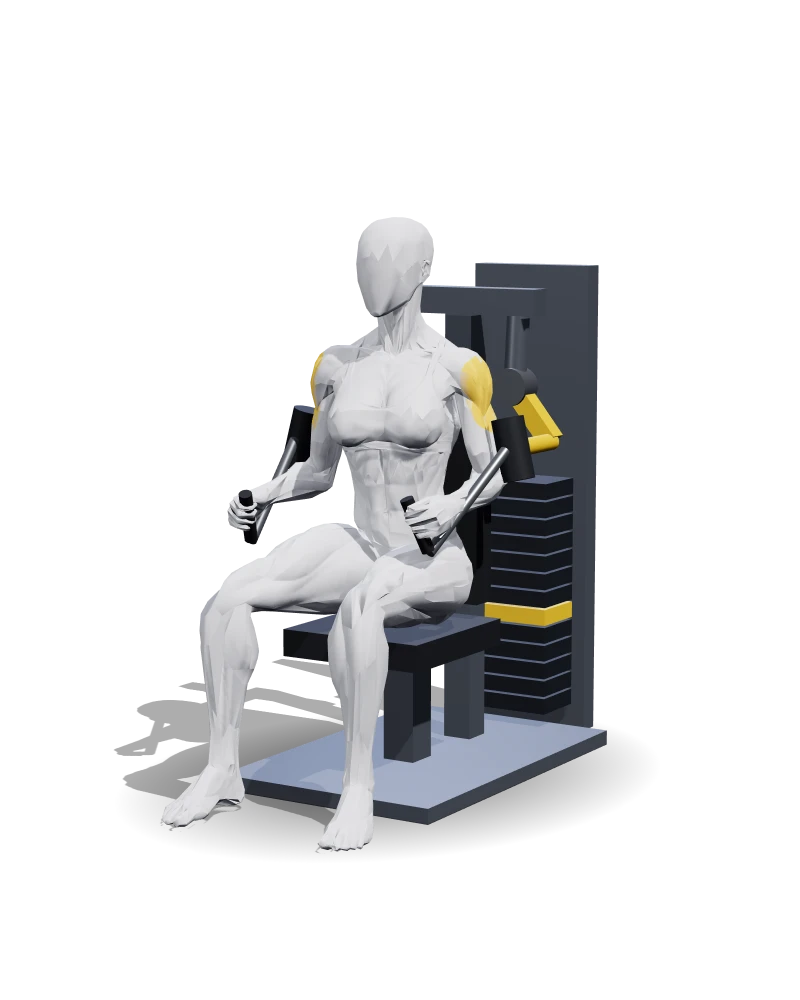
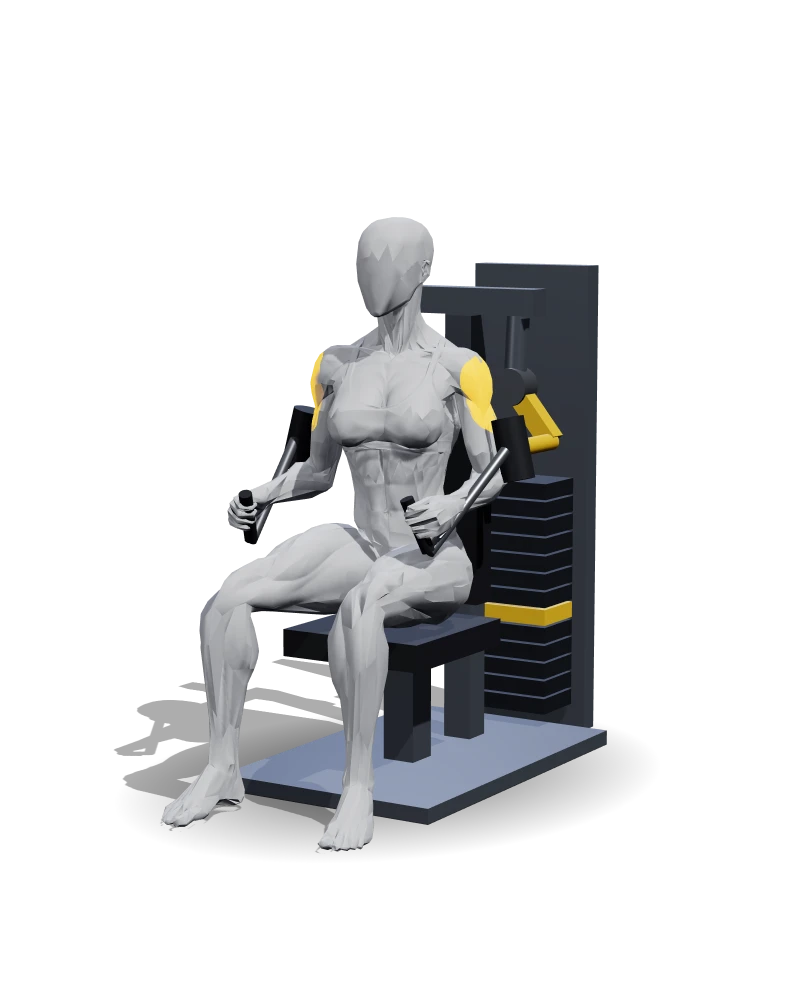
Músculo activo en amarillo neón: color puro, opaco y con brillo propio
- render.html: principal #FFB400 (≈ #FFCC00 tras el tono ACES), mezcla casi total, emisivo 1,1 en la zona activa, piel gris medio y exposición 0,82 para dar contraste; máscara de la cabeza lateral algo más amplia
- arreglado: un comentario anulaba la rugosidad y el relieve (normalScale) de la piel
- imágenes regeneradas (herramientas y public/ejercicios)

Claude-Session: https://claude.ai/code/session_01SVHok8e7aecmfUzWYS3Um1

Changed region(s): [[0.1875, 0.217, 0.625, 0.868], [0.2812, 0.496, 0.3438, 0.527]]

diff --git a/herramientas/ejercicios3d/render.html b/herramientas/ejercicios3d/render.html
@@ -20,8 +20,9 @@ const uCol=Array.from({length:36},()=>new T.Color(0,0,0)), uMix=new Float32Array
 const zona=(z)=>{if(typeof z==='string'){const m=z.match(/^(\w+)(?:\.(R|L))?(?::(\w+))?$/);z=m?{zona:m[1],lado:m[2],cabeza:m[3]}:{zona:z}}return z};
 function marcar(lista,mix,col){for(const e of lista||[]){const z=zona(e),i=CL.indexOf(z.zona);if(i<=0)continue;
  for(const l of z.lado?[z.lado]:['R','L']){const k=i*2+(l==='R'?0:1);if(uMix[k]>=mix)continue;uMix[k]=mix;uCol[k].set(col);uCab[k]=CABEZAS[z.cabeza]||0}}}
-marcar(EJ.zonas?.principales,1,'#F2BE1A'); marcar(EJ.zonas?.secundarias,.5,'#F5D46A');
-const piel=c.malla.material.clone(); piel.color.setRGB(.74,.74,.76); piel.roughness=.58; if(piel.normalScale) piel.normalScale.set(.85,.85); // conserva el mapa de normales (relieve muscular)
+// principales: amarillo neón puro, opaco y con brillo propio; secundarias: ámbar suave
+marcar(EJ.zonas?.principales,1,'#FFB400'); marcar(EJ.zonas?.secundarias,.45,'#FF9A00'); // tras el tono ACES se ven como #FFCC00 / naranja
+const piel=c.malla.material.clone(); piel.color.setRGB(.56,.565,.58); /* gris medio: más contraste con el amarillo neón */ piel.roughness=.58; if(piel.normalScale) piel.normalScale.set(.85,.85); // conserva el mapa de normales (relieve muscular)
 piel.onBeforeCompile=sh=>{sh.uniforms.tZ={value:tex};sh.uniforms.uCol={value:uCol};sh.uniforms.uMix={value:uMix};sh.uniforms.uCab={value:uCab};
  sh.vertexShader=sh.vertexShader.replace('#include <common>','#include <common>\nvarying vec2 vZ; varying vec3 vPR; varying vec3 vNR;')
   .replace('#include <beginnormal_vertex>','#include <beginnormal_vertex>\nvNR = objectNormal;')
@@ -31,10 +32,13 @@ piel.onBeforeCompile=sh=>{sh.uniforms.tZ={value:tex};sh.uniforms.uCol={value:uCo
  int mus = int(floor(texture2D(tZ, vZ).r * 255.0 + 0.5)) / 2; float sg = vPR.x > 0.0 ? 1.0 : -1.0;
  int k = mus * 2 + (vPR.x > 0.0 ? 0 : 1); vec3 fc = uCol[k]; float fm = uMix[k]; float cab = uCab[k];
  vec3 nr = normalize(vNR);
- if (cab > 0.5 && cab < 1.5) fm *= smoothstep(0.0, 0.40, nr.x * sg + 0.35 * max(nr.y, 0.0)) * (1.0 - smoothstep(0.72, 0.95, abs(nr.z)));
+ if (cab > 0.5 && cab < 1.5) fm *= smoothstep(-0.10, 0.22, nr.x * sg + 0.35 * max(nr.y, 0.0)) * (1.0 - smoothstep(0.80, 0.97, abs(nr.z)));
  else if (cab > 1.5 && cab < 2.5) fm *= smoothstep(0.30, 0.65, nr.z);
  else if (cab > 2.5) fm *= smoothstep(0.30, 0.65, -nr.z);
- vec3 tint = fc * (0.5 + 0.9 * dot(diffuseColor.rgb, vec3(0.2126, 0.7152, 0.0722))); diffuseColor.rgb = mix(diffuseColor.rgb, tint, fm * 0.92);`);};
+ vec3 tint = fc * (0.85 + 0.45 * dot(diffuseColor.rgb, vec3(0.2126, 0.7152, 0.0722))); diffuseColor.rgb = mix(diffuseColor.rgb, tint, min(1.0, fm * 1.05));
+ float zFm = fm; vec3 zFc = fc;`)
+ // brillo emisivo (≈ emissiveIntensity 1,1 con exposición 0,82 en la zona activa): el músculo «emite» luz sin perder del todo las sombras del relieve
+ .replace('#include <emissivemap_fragment>','#include <emissivemap_fragment>\n totalEmissiveRadiance += zFc * zFm * 1.1;');};
 c.malla.material=piel; c.malla.castShadow=c.malla.receiveShadow=true;
 // ---- utilidades sobre la malla posada ----
 const pos=c.malla.geometry.attributes.position, si=c.malla.geometry.attributes.skinIndex, sw=c.malla.geometry.attributes.skinWeight;
@@ -68,7 +72,7 @@ let dist=2;for(let it=0;it<40;it++){camara.position.copy(ctr).addScaledVector(di
  const m=Math.max(...corners.map(p=>{const s=p.clone().project(camara);return Math.max(Math.abs(s.x),Math.abs(s.y))}));dist*=m/(cam.margen??0.9);}
 camara.position.copy(ctr).addScaledVector(dir,dist);camara.lookAt(ctr);
 const r=new T.WebGLRenderer({antialias:true,alpha:true,preserveDrawingBuffer:true});r.setSize(W,H);r.setPixelRatio(1);r.setClearColor(0,0);
-r.shadowMap.enabled=true;r.shadowMap.type=T.PCFShadowMap;r.toneMapping=T.ACESFilmicToneMapping;r.toneMappingExposure=1.05;r.outputColorSpace=T.SRGBColorSpace;
+r.shadowMap.enabled=true;r.shadowMap.type=T.PCFShadowMap;r.toneMapping=T.ACESFilmicToneMapping;r.toneMappingExposure=0.82;r.outputColorSpace=T.SRGBColorSpace;
 document.body.appendChild(r.domElement);
 window.__out={};
 for(const e of escenas){
